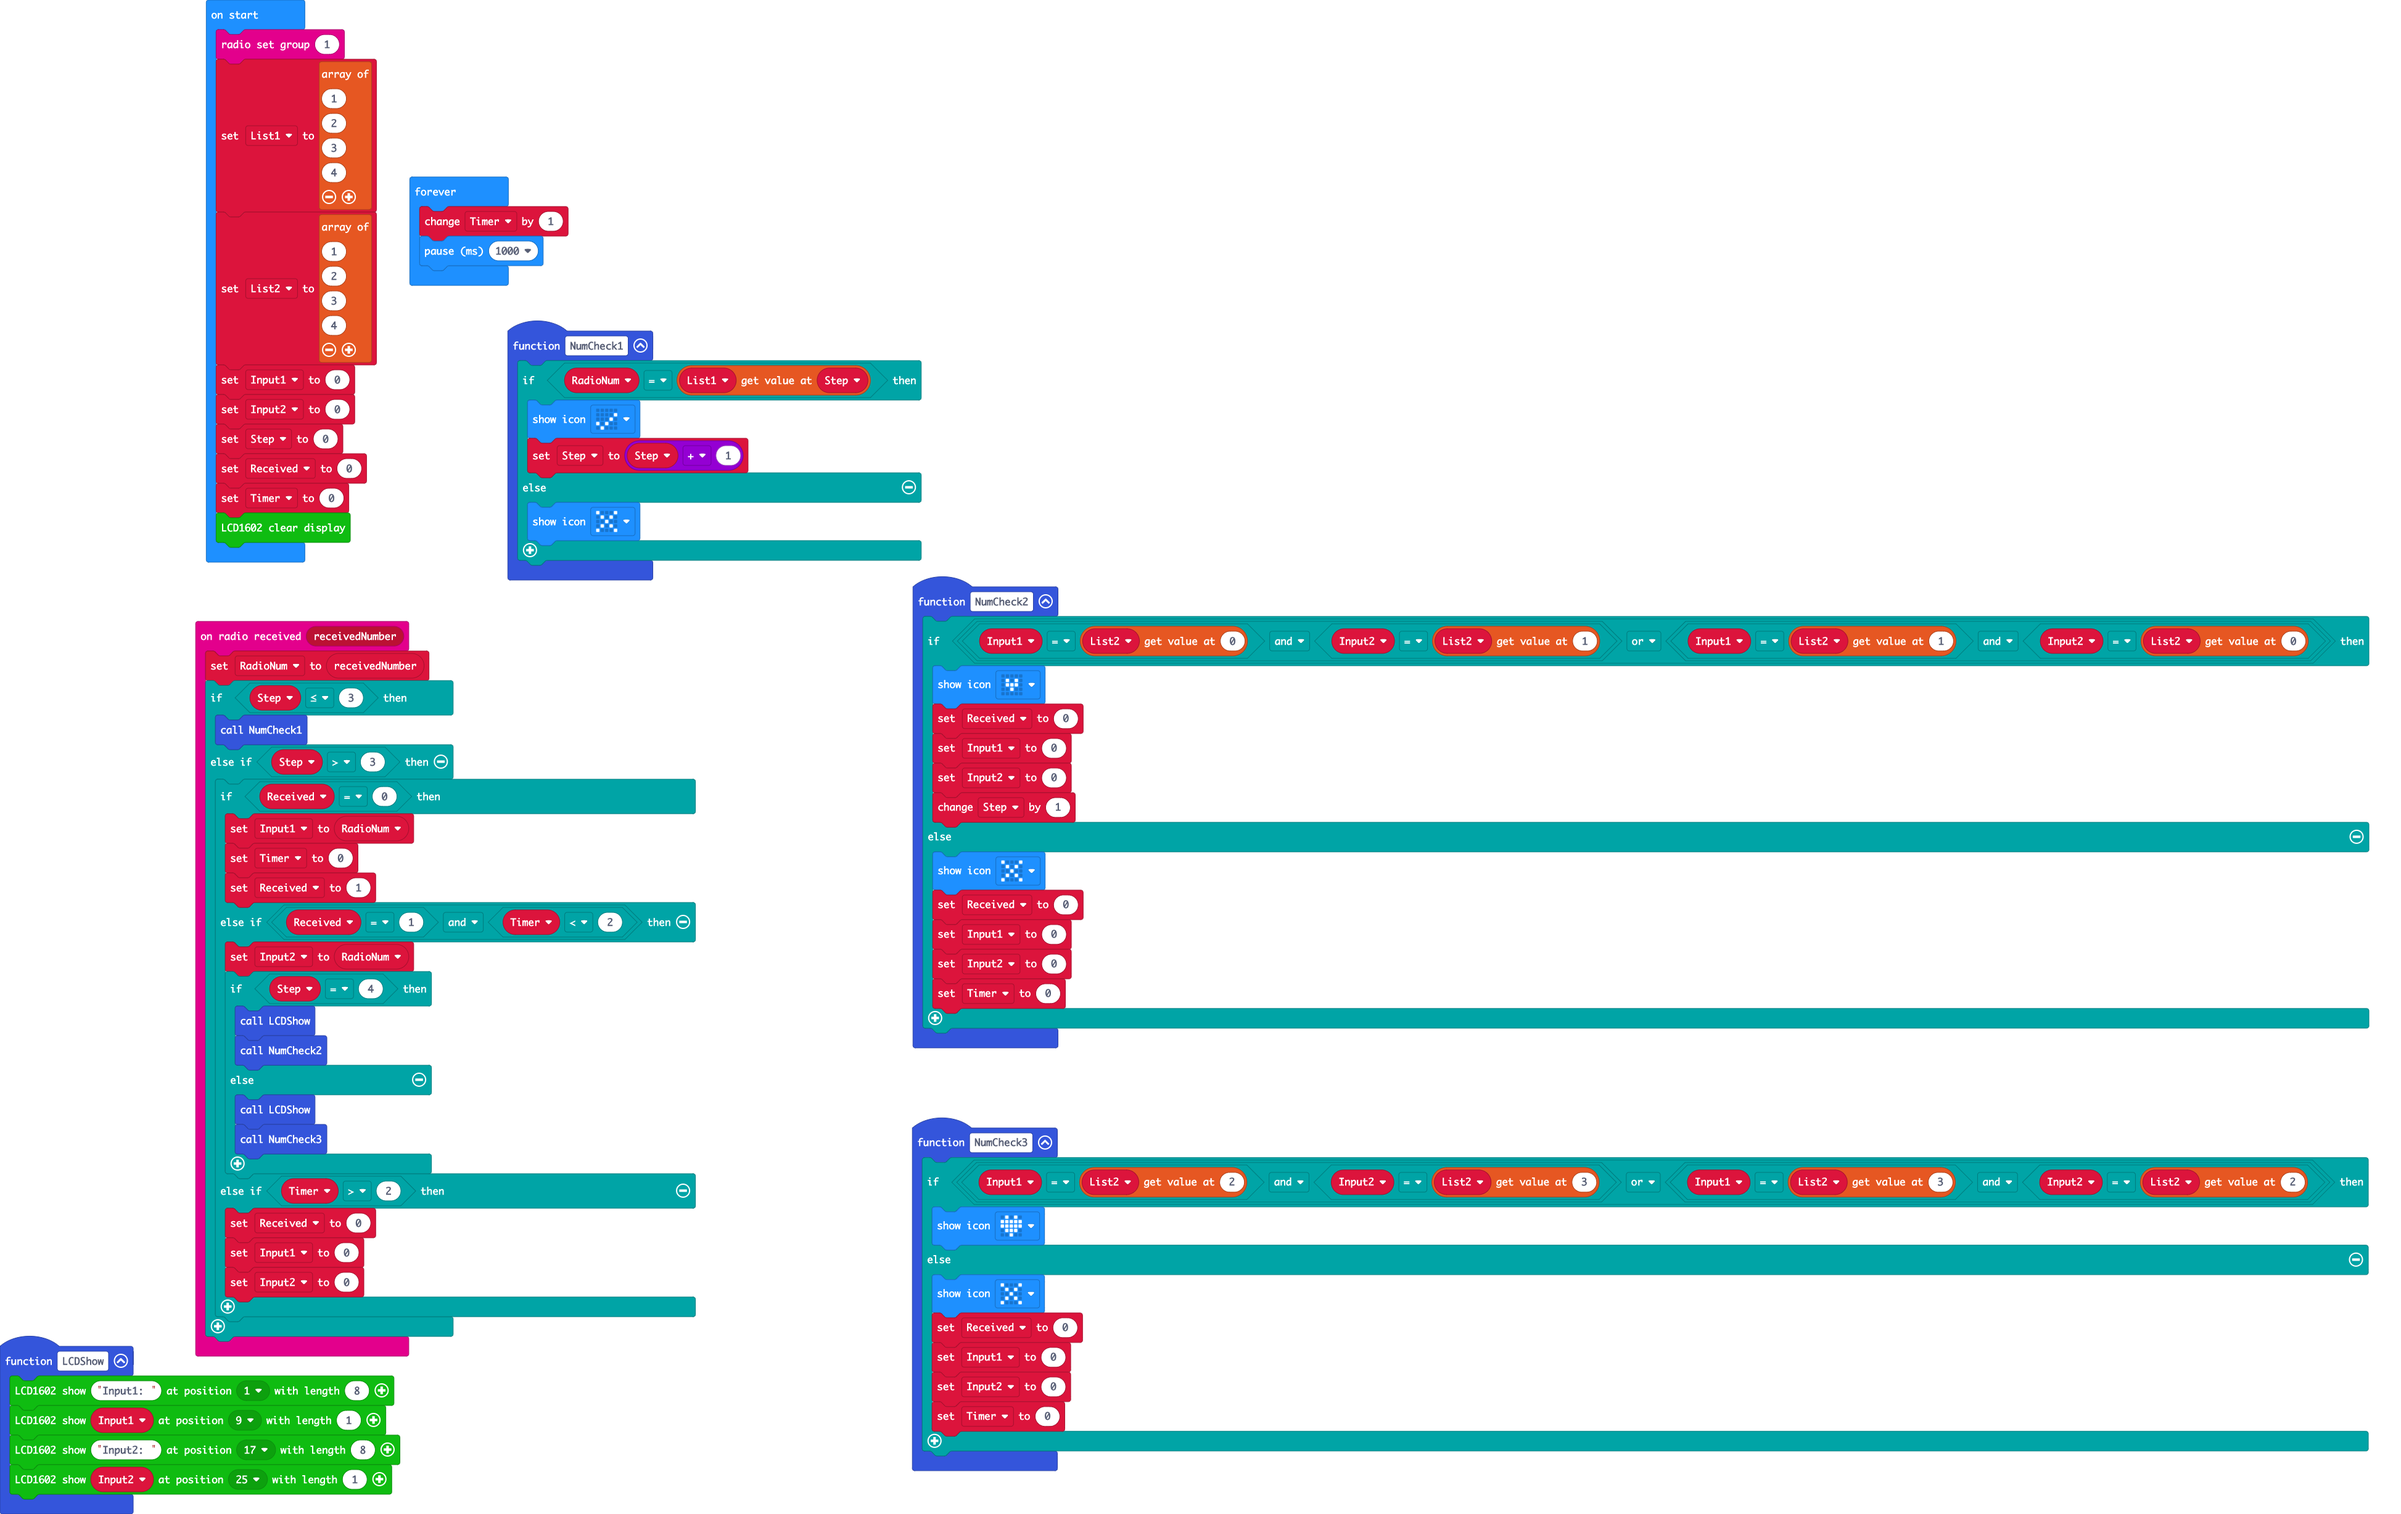
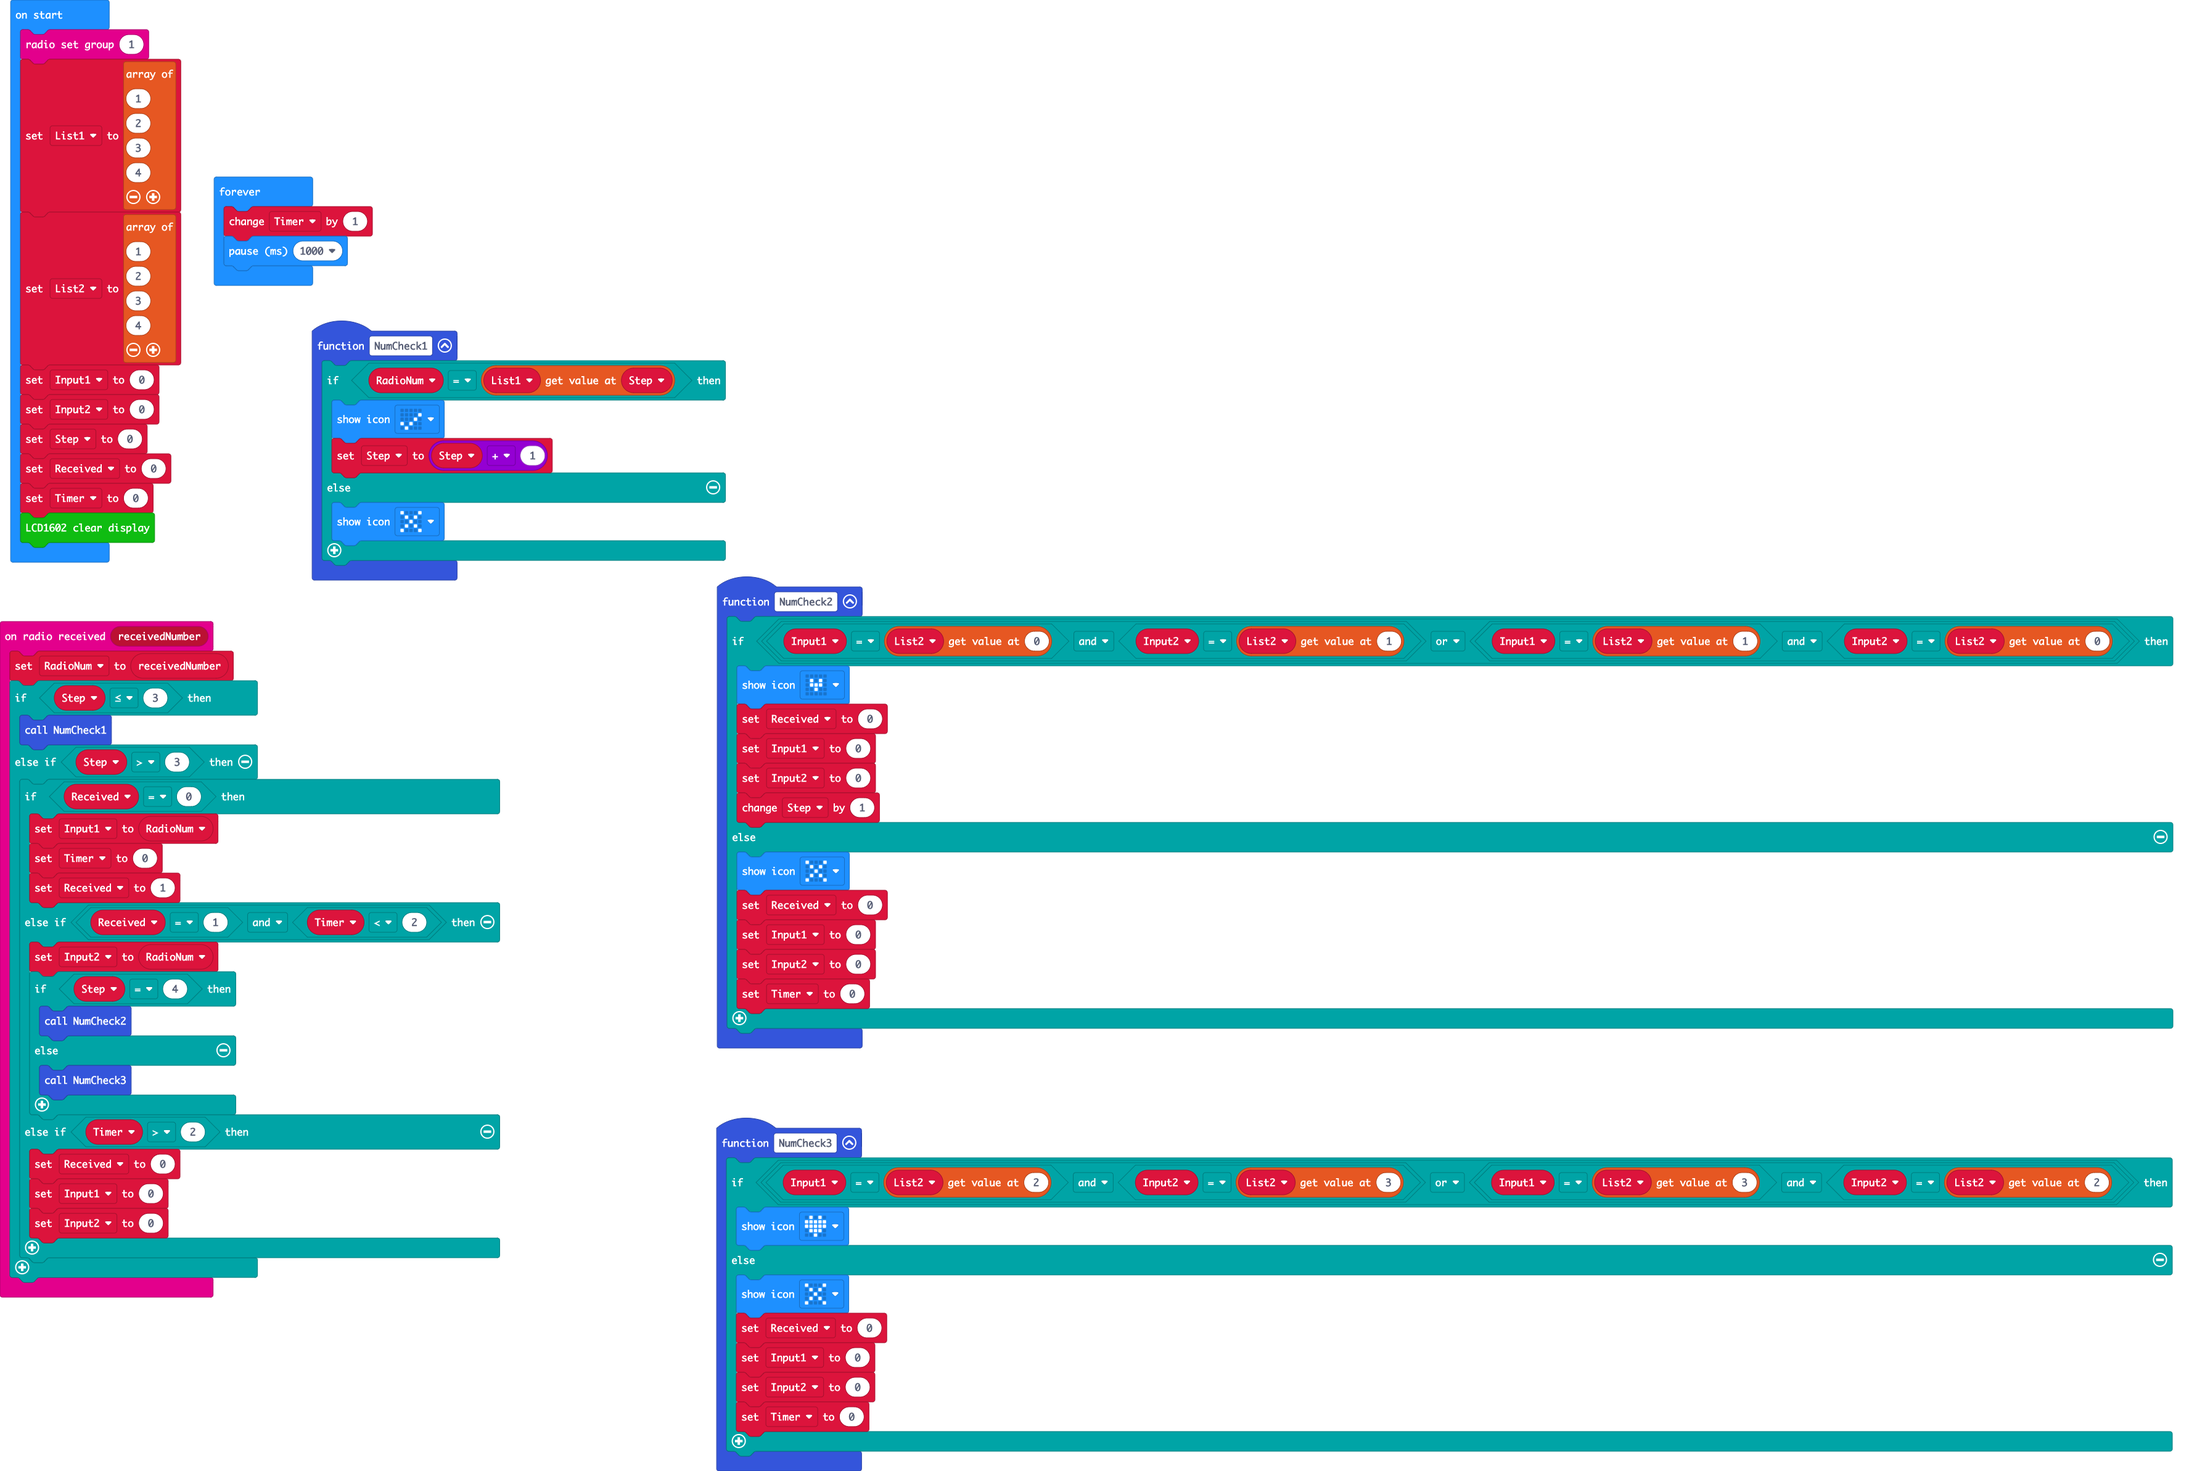
Update main.blocks, main.ts

diff --git a/main.ts b/main.ts
@@ -10,10 +10,8 @@ radio.onReceivedNumber(function (receivedNumber) {
         } else if (Received == 1 && Timer < 2) {
             Input2 = RadioNum
             if (Step == 4) {
-                LCDShow()
                 NumCheck2()
             } else {
-                LCDShow()
                 NumCheck3()
             }
         } else if (Timer > 2) {
@@ -56,12 +54,6 @@ function NumCheck3 () {
         Input2 = 0
         Timer = 0
     }
-}
-function LCDShow () {
-    makerbit.showStringOnLcd1602("Input1: ", makerbit.position1602(LcdPosition1602.Pos1), 8)
-    makerbit.showStringOnLcd1602("" + (Input1), makerbit.position1602(LcdPosition1602.Pos9), 1)
-    makerbit.showStringOnLcd1602("Input2: ", makerbit.position1602(LcdPosition1602.Pos17), 8)
-    makerbit.showStringOnLcd1602("" + (Input2), makerbit.position1602(LcdPosition1602.Pos25), 1)
 }
 let RadioNum = 0
 let Timer = 0
